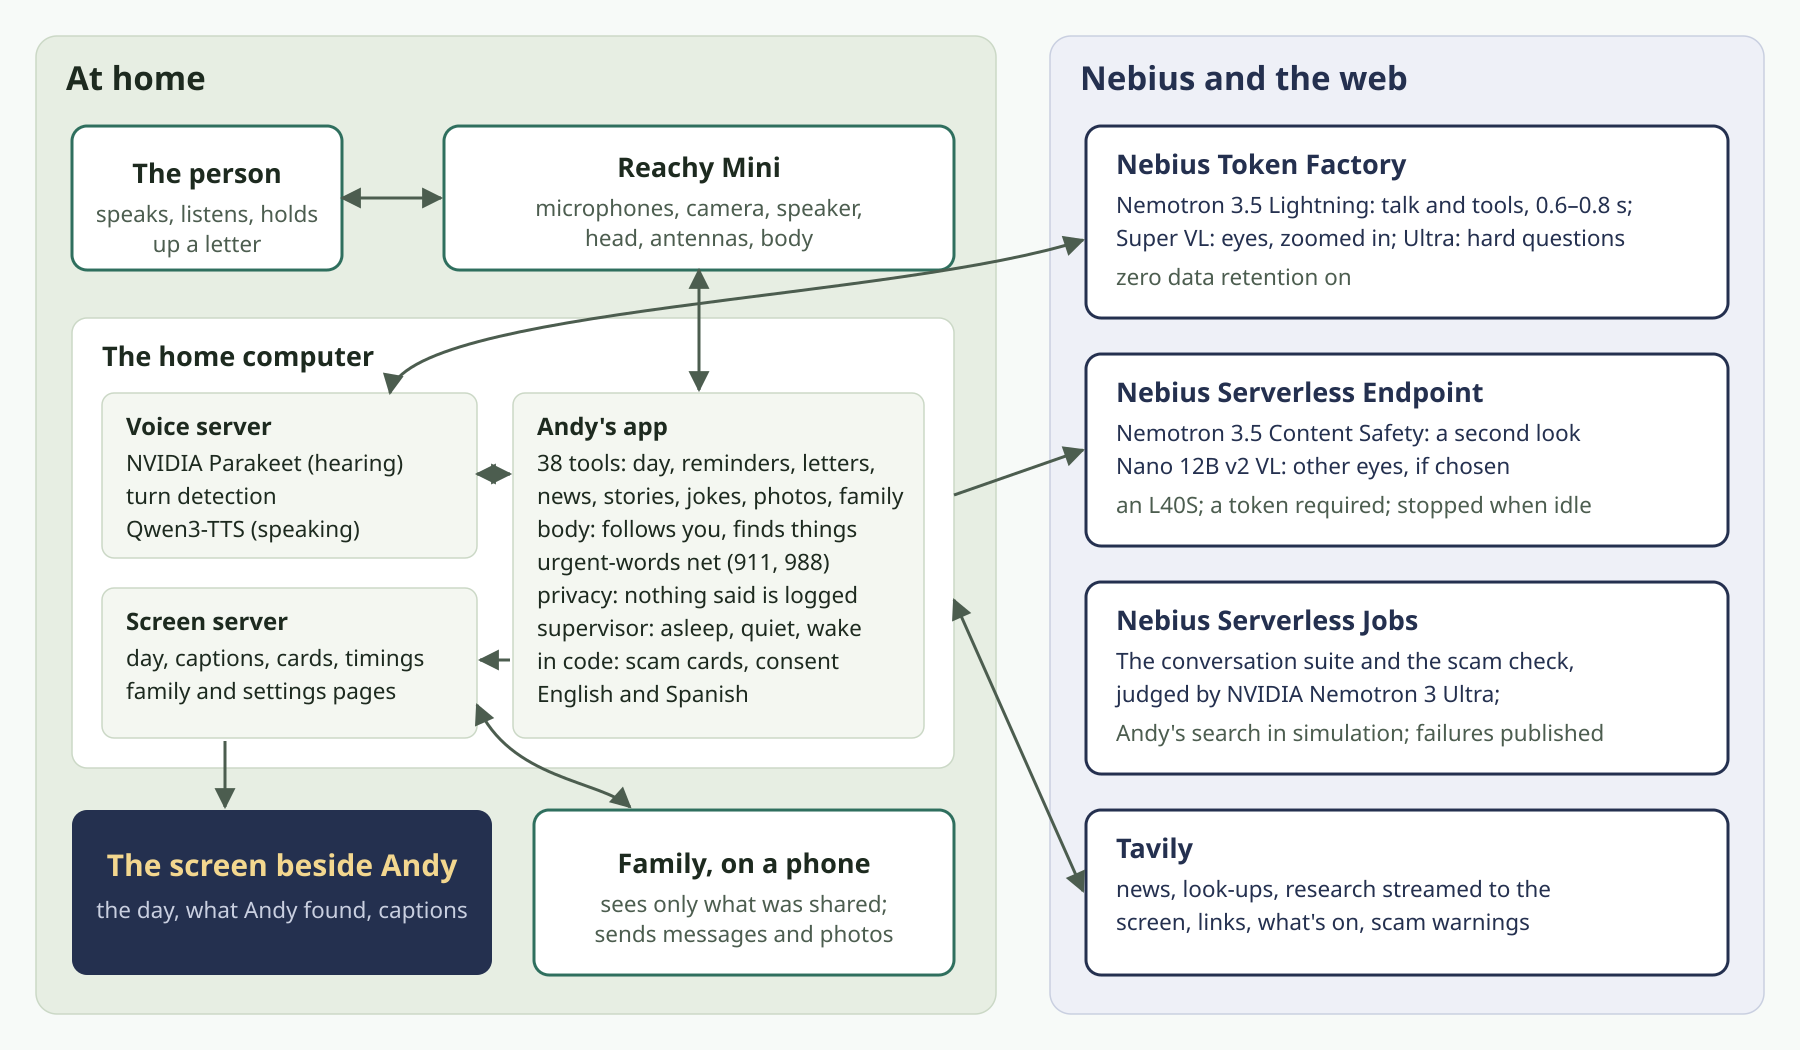
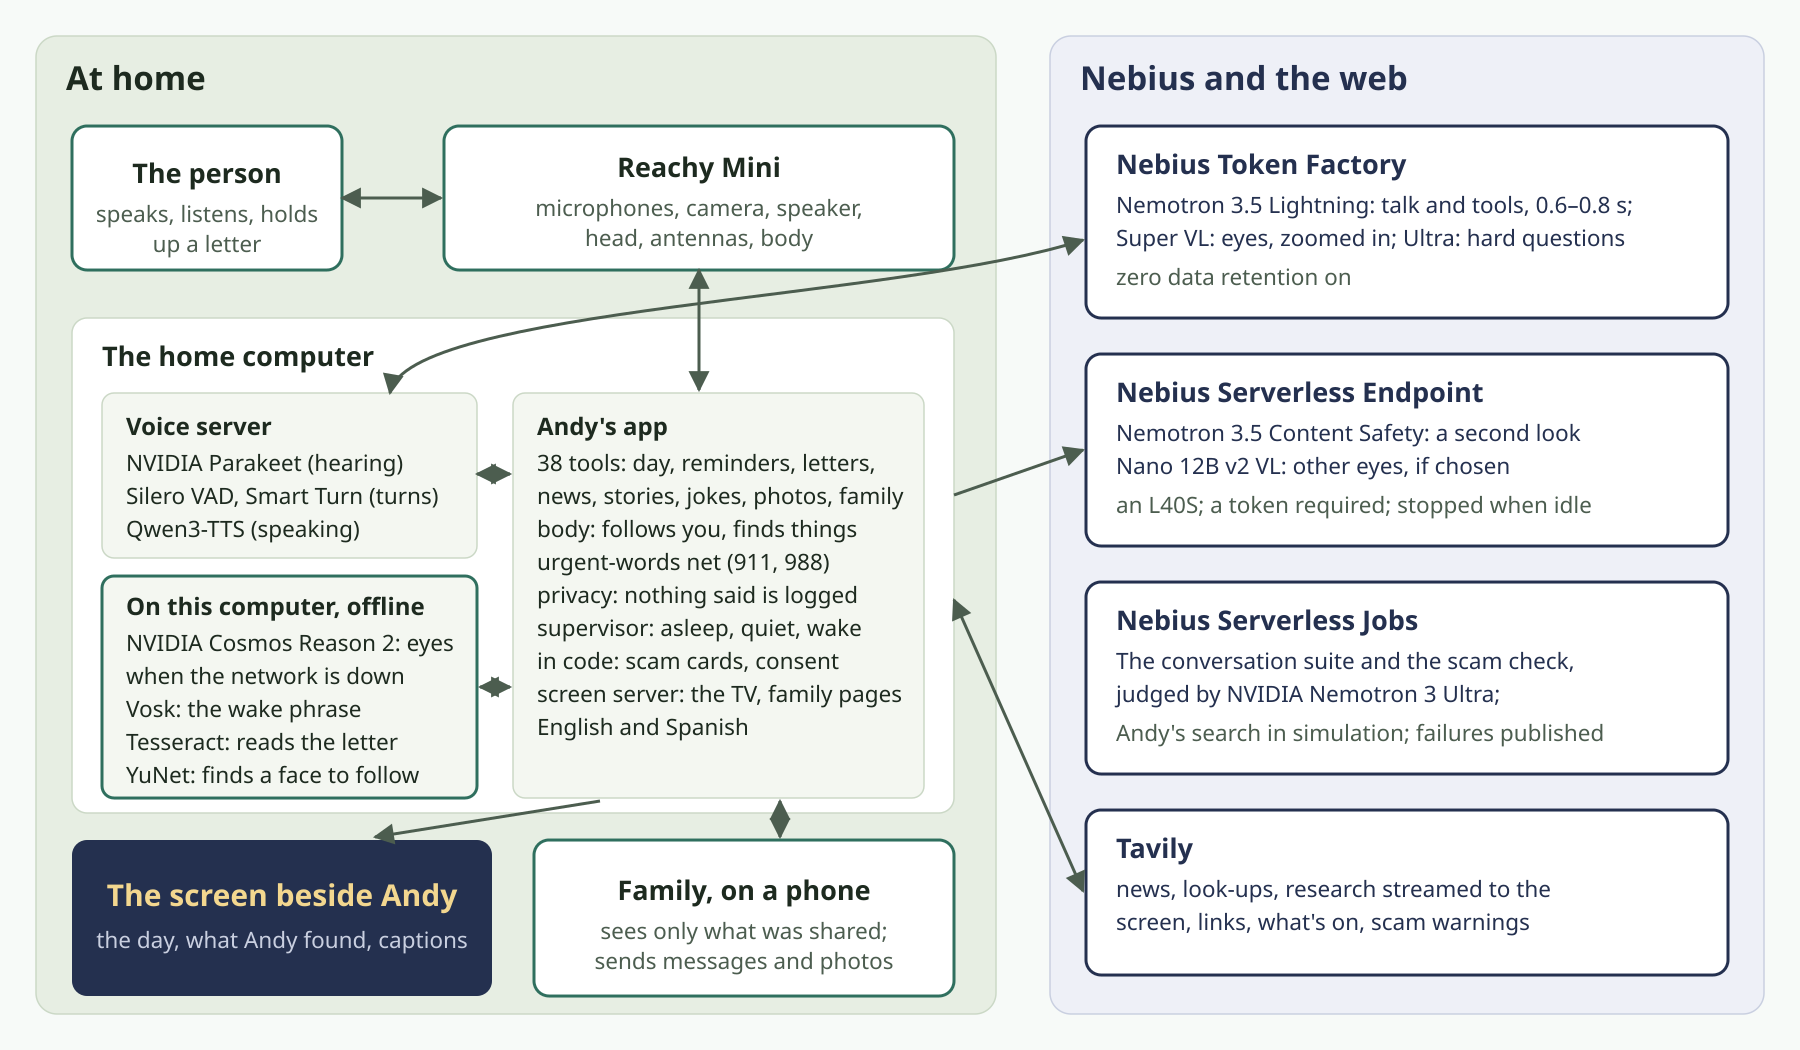
docs: every model and where it runs, local ones first; the diagram shows the offline models

Changed region(s): [[0.0311, 0.5486, 0.5289, 0.9752], [0.0622, 0.4571, 0.2489, 0.4876]]

diff --git a/reachy_app/index.html b/reachy_app/index.html
@@ -56,8 +56,10 @@
       <h2 id="built">How it's built</h2>
       <dl>
         <div><dt>Hears</dt><dd>NVIDIA Parakeet, on your own computer</dd></div>
+        <div><dt>Speaks</dt><dd>Qwen3-TTS, on your own computer</dd></div>
         <div><dt>Thinks</dt><dd>NVIDIA Nemotron 3.5 Lightning on Nebius Token Factory, and Nemotron 3 Ultra for hard questions</dd></div>
-        <div><dt>Sees</dt><dd>NVIDIA Nemotron 3.5 Super VL on Nebius Token Factory</dd></div>
+        <div><dt>Sees</dt><dd>NVIDIA Nemotron 3.5 Super VL on Nebius Token Factory; NVIDIA Cosmos Reason 2 on your own computer when the network is down</dd></div>
+        <div><dt>Offline too</dt><dd>The wake phrase (Vosk), reading letters (Tesseract) and finding a face to follow (YuNet), all on your own computer</dd></div>
         <div><dt>Checked</dt><dd>A conversation suite judged by Nemotron 3 Ultra, run as a Nebius Serverless Job</dd></div>
         <div><dt>Searches</dt><dd>Tavily</dd></div>
       </dl>

diff --git a/README.md b/README.md
@@ -37,7 +37,7 @@ open the screens on sample data with no keys at all ([try it](#try-it-without-a-
 failures included ([evals/results/](evals/results/README.md)); or [ask for the real robot live on a video call](https://github.com/AndyDM9/andy-companion/issues/new?template=live-demo.yml),
 any time until 2026-12-15.
 
-**Contents:** [three moments](#three-moments), [what Andy does](#what-andy-does), [how it uses NVIDIA and Nebius](#how-it-uses-nvidia-and-nebius), [measured](#measured-reachy-mini-lite), [what runs where](#what-runs-where-and-why-that-model), [privacy](#privacy), [accessibility](#accessibility), [path to shipping](#path-to-shipping), [limitations](#limitations), [try it without a robot](#try-it-without-a-robot), [setup](#setup), [licences and credits](#licences-and-credits).
+**Contents:** [three moments](#three-moments), [what Andy does](#what-andy-does), [every model and where it runs](#every-model-and-where-it-runs), [how it uses NVIDIA and Nebius](#how-it-uses-nvidia-and-nebius), [measured](#measured-reachy-mini-lite), [what runs where](#what-runs-where-and-why-that-model), [privacy](#privacy), [accessibility](#accessibility), [path to shipping](#path-to-shipping), [limitations](#limitations), [try it without a robot](#try-it-without-a-robot), [setup](#setup), [licences and credits](#licences-and-credits).
 
 ## Three moments
 
@@ -123,6 +123,39 @@ active level of use, worked out from list prices (Token Factory's on 2026-10-14;
 credits) and our assumptions about use, not from a household's bill; plus the hardware once. The eyes are on Token Factory, paid per picture (a search for your glasses about half a cent), so nothing
 runs while idle. The second look is not in that figure: it runs on a Nebius endpoint started when needed (about
 $1.55 an hour while running). Every price and assumption: [docs/cost.md](docs/cost.md).
+
+## Every model, and where it runs
+
+Thirteen models: eight on the computer beside the robot, two of them NVIDIA's, so Andy hears, speaks, wakes,
+reads, follows a face and, when the network is down, sees, at home; and five NVIDIA Nemotron models on Nebius.
+
+**On this computer, beside the robot**
+
+| What it does | Model | Runs on | Measured |
+|---|---|---|---|
+| Hearing: speech to text | NVIDIA **Parakeet TDT 0.6B v3** | GPU, in the voice server ([speech-to-speech](https://github.com/huggingface/speech-to-speech)) | 0.02 to 0.08 s an utterance |
+| Speaking: text to speech | **Qwen3-TTS 12Hz 1.7B CustomVoice** (BF16, GGUF) | GPU, in the voice server | first audio in 0.10 to 0.33 s; hearing and speaking together about 7.1 GB of GPU memory |
+| Knowing when you've finished speaking | **Silero VAD** and **Smart Turn v3.2** | CPU, in the voice server | |
+| The wake phrase, while Andy sleeps or is quiet | **Vosk** small models, English 0.15 and Spanish 0.42 | CPU, offline | |
+| Reading the letter in your hand | **Tesseract** OCR, English and Spanish | CPU; only the text leaves | |
+| Finding a face to follow (detection, never recognition) | **YuNet** (Pollen's `face_detection_yunet_2026may`) on ONNX Runtime | CPU, in Pollen's robot software | |
+| Seeing when the network is down | NVIDIA **Cosmos Reason 2 8B** (2B on a smaller GPU) | GPU, vLLM on 127.0.0.1 only ([decision 0015](docs/decisions/0015-cosmos-on-this-computer-as-the-offline-eyes.md)) | in simulation pointed 22 of 23 (8B), 18 of 23 (2B); tried end to end on this computer, not yet on the robot |
+
+Seeing a wave, the head's glance and turning to a voice need no model: motion in OpenCV, and the robot's own
+microphones.
+
+**On Nebius**
+
+| What it does | Model | Runs on | Measured |
+|---|---|---|---|
+| Every turn: conversation and 38 tools | NVIDIA **Nemotron 3.5 Lightning** | Token Factory | first sound a median 1.06 s after your words (54 turns on the robot) |
+| Eyes: what's in view, family photos, finding things | NVIDIA **Nemotron 3.5 Super VL** | Token Factory | zoomed in, the search went from 0 of 9 to 9 of 9 at the desk |
+| Hard questions, and the judge of the tests | NVIDIA **Nemotron 3 Ultra** | Token Factory | the scam check: 58 of 60 caught, none of 60 ordinary flagged |
+| A second check for signs of crisis | NVIDIA **Nemotron 3.5 Content Safety** | Serverless Endpoint (our vLLM) | 7 of 8 held-out phrasings, no false alarm |
+| Eyes, as an option (`ANDY_VISION=endpoint`) | NVIDIA **Nemotron Nano 12B v2 VL** (FP8) | Serverless Endpoint | a description in 3.45 s |
+
+Nebius **Serverless Jobs** run the tests: the 97-situation conversation suite, the scam check five ways, and Andy's
+search in Pollen's MuJoCo simulation. The details, and why each model, follow.
 
 ## How it uses NVIDIA and Nebius
 

diff --git a/docs/submission.md b/docs/submission.md
@@ -33,8 +33,10 @@ Andy is a small home robot for older adults who live at home, and the family who
 hand, looks around the room for your glasses, and looks things up for you. Every robot shot in the video is live,
 with no cuts in the pauses. Entered in the **Physical AI track**.
 - **Track fit:** an embodied agent on a Pollen Reachy Mini. Pollen's conversation app is the agent runtime; NVIDIA
-  Nemotron on Nebius Token Factory talks, sees and decides, and its answers move the robot's head. NVIDIA Cosmos
-  Reason 2 is its eyes when the network is down (tried on the home computer, not yet on the robot).
+  Nemotron on Nebius Token Factory talks, sees and decides, and its answers move the robot's head. Eight models run
+  on the computer beside the robot: NVIDIA Parakeet hears, Qwen3-TTS speaks, and NVIDIA Cosmos Reason 2 is its eyes
+  when the network is down (tried on the home computer, not yet on the robot), with local models for the wake
+  phrase, reading letters and finding a face.
 - **Nebius:** Token Factory answers every turn (a median of [1.06 s](https://github.com/AndyDM9/andy-companion/blob/hackathon-submission/evals/results/robot-timings-2026-10-20-1550.json)
   from your words to Andy's first sound, 54 turns on the robot). **Serverless Jobs** run Andy's search in Pollen's
   MuJoCo simulation, scored against the scene's truth, and 97 spoken situations; a **Serverless Endpoint** serves
@@ -83,8 +85,11 @@ turning to a second person speaking, a move taught by hand, and remembering wher
 
 ### How we built it
 
-- **Hearing and speaking at home:** NVIDIA Parakeet and Qwen3-TTS on the home computer's GPU, so your voice never
-  leaves the house; only words do. On the robot, a median of [1.06 s](https://github.com/AndyDM9/andy-companion/blob/hackathon-submission/evals/results/robot-timings-2026-10-20-1550.json) from the moment your words are
+- **Eight models at home, on the computer beside the robot:** NVIDIA Parakeet TDT 0.6B v3 (hearing) and Qwen3-TTS
+  (speaking) on its GPU, so your voice never leaves the house, only words do; Silero VAD and Smart Turn v3.2 (when
+  you've finished speaking); Vosk (the wake phrase, offline, English and Spanish); Tesseract (reading the letter);
+  YuNet (finding a face to follow, never recognising it); and NVIDIA Cosmos Reason 2 (seeing when the network is
+  down). Five NVIDIA Nemotron models on Nebius, below. On the robot, a median of [1.06 s](https://github.com/AndyDM9/andy-companion/blob/hackathon-submission/evals/results/robot-timings-2026-10-20-1550.json) from the moment your words are
   understood to Andy's first sound (54 real turns).
 - **Thinking on Nebius Token Factory:** NVIDIA Nemotron 3.5 Lightning talks and calls 38 tools; NVIDIA Nemotron 3
   Ultra takes hard questions and judges the tests. Zero data retention is on.

diff --git a/docs/architecture.md b/docs/architecture.md
@@ -18,11 +18,17 @@ The text diagram below shows the voice path in detail.
             │      │ OpenAI Realtime protocol (ws://127.0.0.1:8765)    │
             │      ▼                                                   │
             │ voice/: speech-to-speech                                 │
-            │   Smart Turn (end of turn) → NVIDIA Parakeet (speech to  │
-            │   text) → LLM client → Qwen3-TTS (text to speech)        │
+            │   Silero VAD + Smart Turn (end of turn) →                │
+            │   NVIDIA Parakeet (speech to text) → LLM client →        │
+            │   Qwen3-TTS (text to speech)                             │
             └───────────────│──────────────────────────────────────────┘
                             ▼ HTTPS, zero data retention
               Nebius Token Factory: NVIDIA Nemotron 3.5 Lightning
+
+ Also on this computer, offline: Vosk (the wake phrase, English and Spanish), Tesseract (reading a letter; only
+ its text leaves), YuNet on ONNX Runtime in Pollen's software (finding a face to follow, never recognising it), and
+ NVIDIA Cosmos Reason 2 (the eyes when the network is down, below). The full list, with what each is for and what we
+ measured: the README's "Every model, and where it runs".
 
  tools/ (local_news, look_up, whats_on, read_link, check_message, look_into; setup: events page)
       ──▶ HTTPS ──▶ Tavily (search, extract, crawl, map, research); safe search on every search,

diff --git a/CHANGELOG.md b/CHANGELOG.md
@@ -5,6 +5,17 @@ Every change, newest first, grouped by date. Each entry says what changed and wh
 
 ## 2026-10-25
 
+### Every model, and where it runs
+
+A judge wants to see local models; Andy runs eight, but the README's table named only Parakeet and Cosmos, and the
+diagram none of the offline ones. Now: a README section near the top, **"Every model, and where it runs"**, two tables
+(on this computer: NVIDIA Parakeet TDT 0.6B v3, Qwen3-TTS 12Hz 1.7B, Silero VAD and Smart Turn v3.2, Vosk, Tesseract,
+YuNet on ONNX Runtime, NVIDIA Cosmos Reason 2; on Nebius: five NVIDIA Nemotron models), each with what it does, where
+it runs and what we measured; the diagram (`architecture.svg` and its PNG for the gallery and the video's shot 7) with
+an "On this computer, offline" box; the Devpost text's first block and its build section naming the local models; the
+architecture notes and the Reachy Mini app's page likewise. Every name checked against what runs (the voice server's
+log, Pollen's face detector, the wake listener).
+
 ### Checked (every count against the current state)
 
 After the day's changes, every number in the docs was compared with the repository: 923 tests collected, 38 tools,
